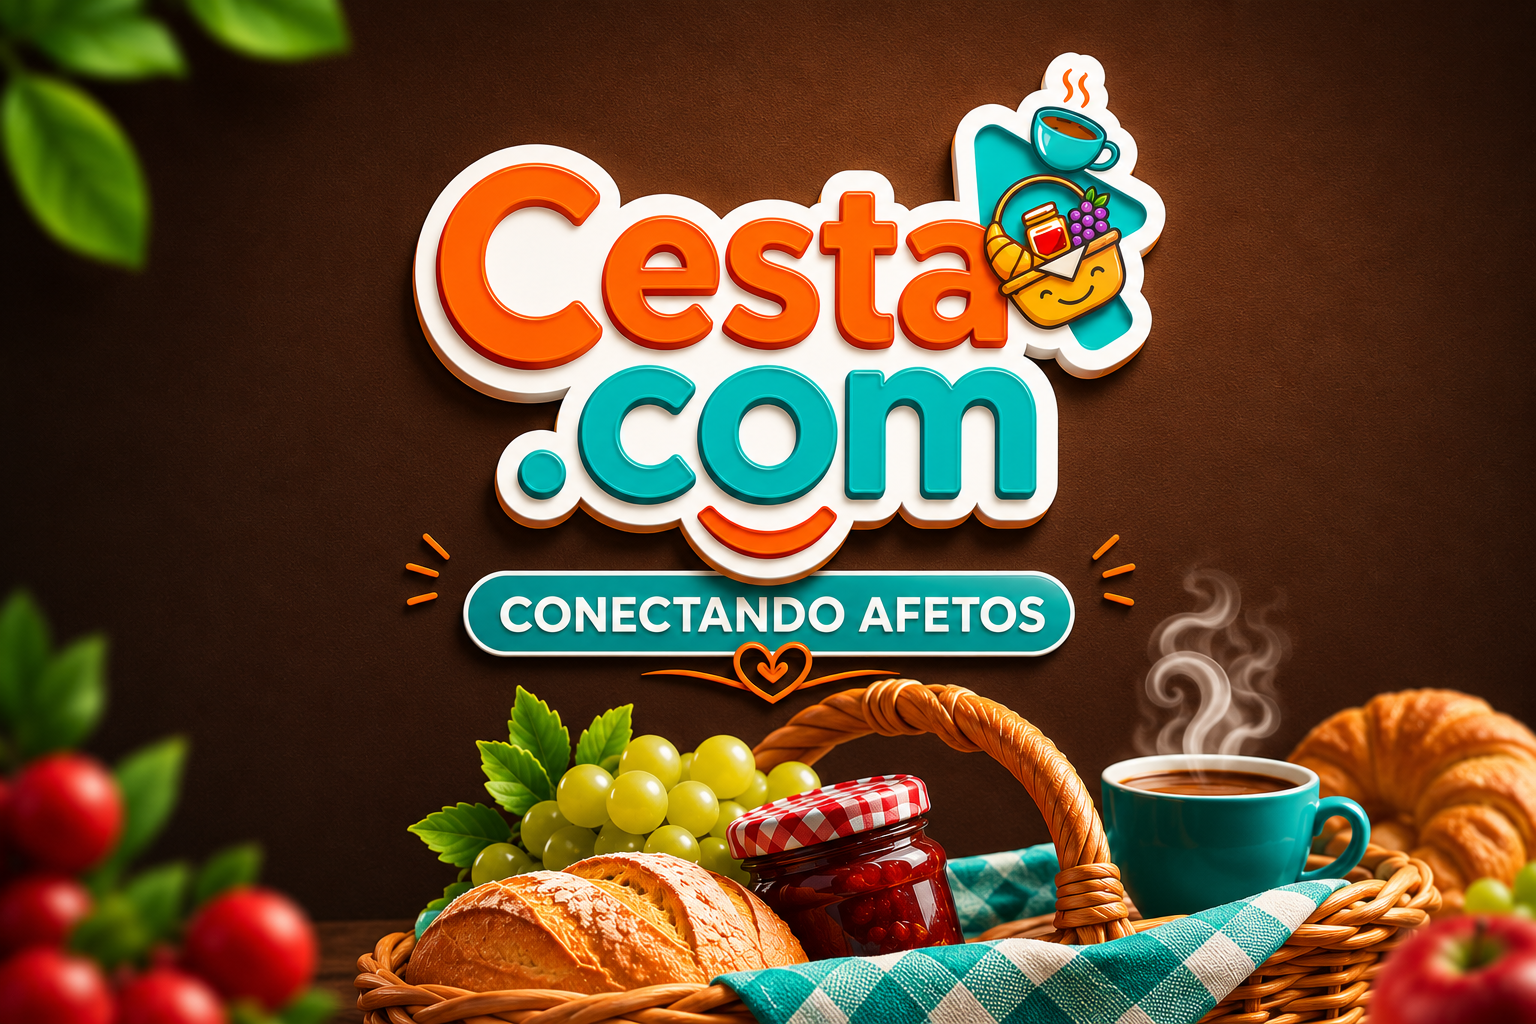
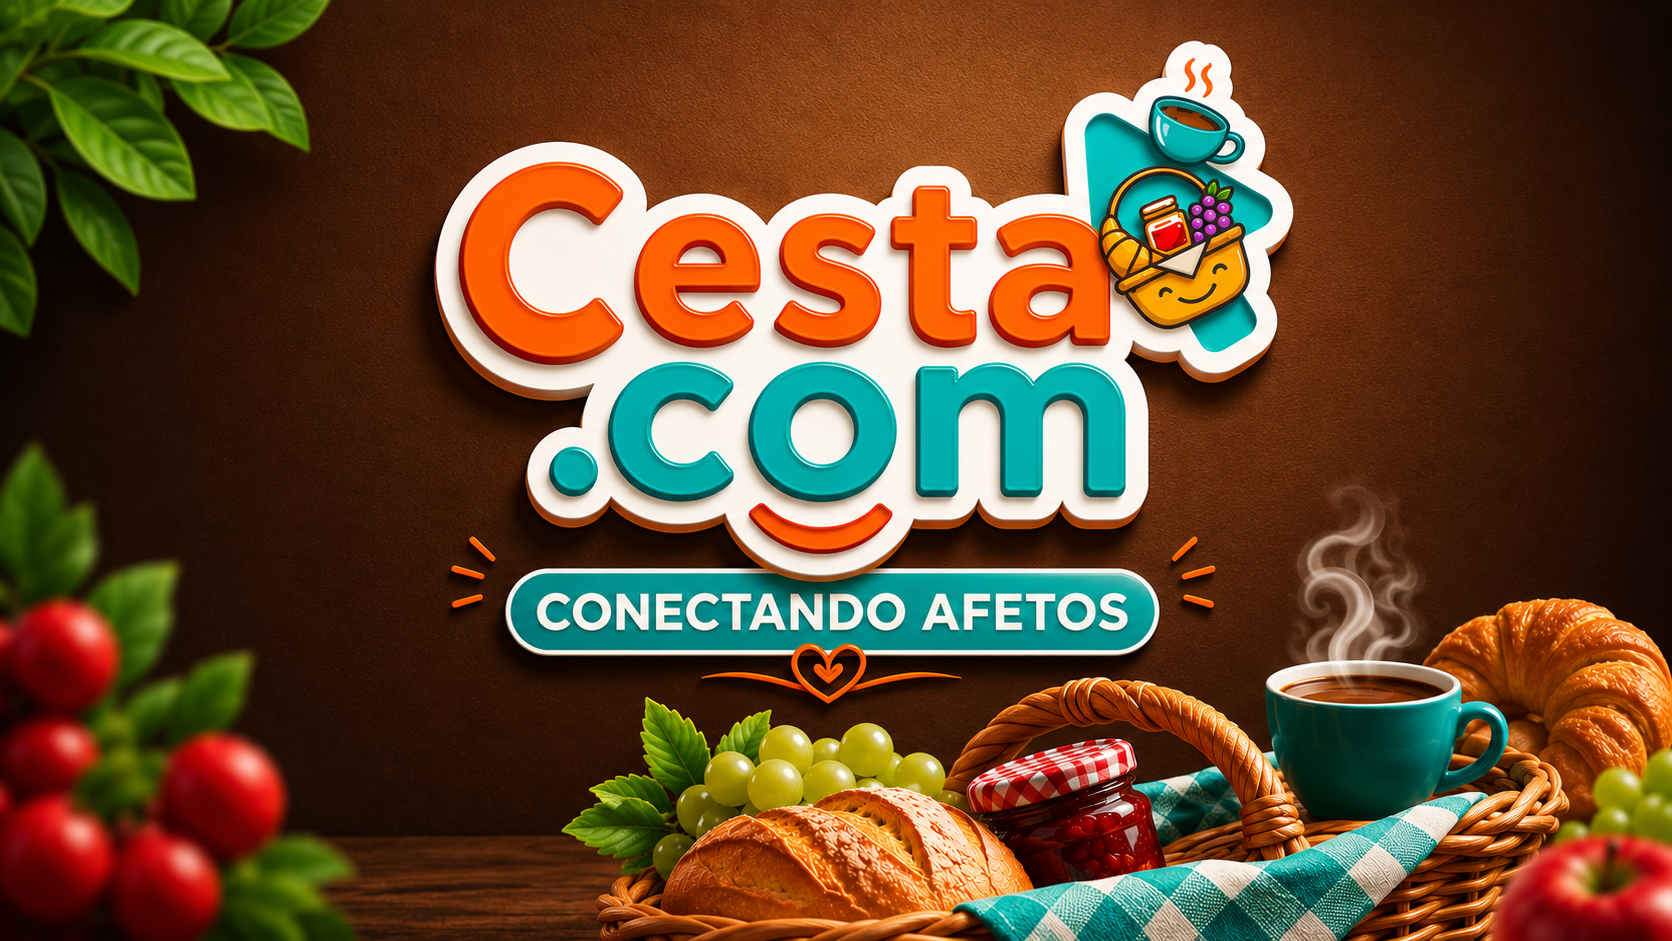
Ajusta paleta e hero da home

diff --git a/src/modules/home/pages/HomePage.tsx b/src/modules/home/pages/HomePage.tsx
@@ -8,9 +8,8 @@ import { WhatsAppButton } from '../../../shared/components/WhatsAppButton';
 import { useProducts } from '../../../shared/hooks/useProducts';
 import { testimonials } from '../../../shared/mocks/products';
 import { customOrderMessage } from '../../../shared/services/whatsapp';
+import heroImage from '../../../assets/hero.png';
 import mobileHeroImage from '../../../assets/heroMobile.png';
-
-const heroImage = 'https://images.unsplash.com/photo-1512909006721-3d6018887383?auto=format&fit=crop&w=1800&q=90';
 
 const steps = [
   { icon: Gift, title: 'Escolha sua cesta', text: 'Navegue por composições prontas para cada ocasião.' },
@@ -42,11 +41,13 @@ export function HomePage() {
         <div className="relative left-1/2 h-[calc(100svh-5rem)] min-h-[620px] w-screen -translate-x-1/2 overflow-hidden bg-espresso shadow-glow sm:hidden">
           <img className="h-full w-full object-cover object-center" src={mobileHeroImage} alt="Cesta.com, WhatsApp (12) 3126-3230 e Instagram @cesta.com_" />
         </div>
-        <img
-          className="absolute inset-0 hidden h-full w-full object-cover object-center sm:block"
-          src={heroImage}
-          alt="Cesta premium Cesta.com"
-        />
+        <div className="absolute inset-0 hidden sm:block">
+          <img
+            className="h-full w-full object-cover object-center"
+            src={heroImage}
+            alt="Cesta premium Cesta.com"
+          />
+        </div>
         <div className="absolute inset-0 hidden bg-gradient-to-r from-espresso/90 via-coffee/68 to-coffee/18 sm:block" />
         <div className="absolute inset-x-0 bottom-0 hidden h-36 bg-gradient-to-t from-cream to-transparent dark:from-espresso sm:block" />
 

diff --git a/tailwind.config.ts b/tailwind.config.ts
@@ -6,20 +6,20 @@ export default {
   theme: {
     extend: {
       colors: {
-        cream: '#fff8ed',
-        linen: '#f7ead7',
-        coffee: '#4b2f24',
-        espresso: '#24150f',
-        caramel: '#b9804d',
-        gold: '#d7a852',
-        rose: '#d9a3a1',
-        blush: '#f8dddc',
-        sage: '#8f9d7a',
-        pistachio: '#eef2df',
+        cream: '#fff6ec',
+        linen: '#fbe8d4',
+        coffee: '#4a2117',
+        espresso: '#20110d',
+        caramel: '#f26922',
+        gold: '#ff8a2a',
+        rose: '#ff6f4d',
+        blush: '#ffe1d3',
+        sage: '#00a9a5',
+        pistachio: '#d9fbf5',
       },
       boxShadow: {
-        premium: '0 24px 70px rgba(75, 47, 36, 0.14)',
-        glow: '0 20px 60px rgba(215, 168, 82, 0.24)',
+        premium: '0 24px 70px rgba(74, 33, 23, 0.14)',
+        glow: '0 20px 60px rgba(242, 105, 34, 0.24)',
       },
       fontFamily: {
         sans: ['Inter', 'ui-sans-serif', 'system-ui', 'sans-serif'],
@@ -27,7 +27,7 @@ export default {
       },
       backgroundImage: {
         'soft-radial':
-          'radial-gradient(circle at 18% 20%, rgba(217,163,161,.22), transparent 28%), radial-gradient(circle at 82% 12%, rgba(143,157,122,.20), transparent 30%), linear-gradient(135deg, #fff8ed 0%, #f7ead7 48%, #ffffff 100%)',
+          'radial-gradient(circle at 18% 20%, rgba(242,105,34,.16), transparent 28%), radial-gradient(circle at 82% 12%, rgba(0,169,165,.16), transparent 30%), linear-gradient(135deg, #fff6ec 0%, #fbe8d4 48%, #ffffff 100%)',
       },
     },
   },

diff --git a/src/styles/globals.css b/src/styles/globals.css
@@ -5,8 +5,8 @@
 @tailwind utilities;
 
 :root {
-  color: #2e1c15;
-  background: #fff8ed;
+  color: #4a2117;
+  background: #fff6ec;
   font-synthesis: none;
   text-rendering: optimizeLegibility;
   -webkit-font-smoothing: antialiased;
@@ -15,6 +15,7 @@
 
 html {
   scroll-behavior: smooth;
+  scroll-padding-top: 5rem;
 }
 
 body {
@@ -31,18 +32,18 @@ select {
 }
 
 option {
-  color: #24150f;
-  background: #fff8ed;
+  color: #20110d;
+  background: #fff6ec;
 }
 
 ::selection {
-  color: #24150f;
-  background: #f1cfc9;
+  color: #20110d;
+  background: #d9fbf5;
 }
 
 .dark {
-  color: #fff8ed;
-  background: #170f0b;
+  color: #fff6ec;
+  background: #170c09;
 }
 
 .premium-scrollbar::-webkit-scrollbar {
@@ -52,5 +53,5 @@ option {
 
 .premium-scrollbar::-webkit-scrollbar-thumb {
   border-radius: 999px;
-  background: rgba(185, 128, 77, 0.42);
+  background: rgba(242, 105, 34, 0.42);
 }

diff --git a/src/shared/components/layout/Header.tsx b/src/shared/components/layout/Header.tsx
@@ -61,7 +61,7 @@ export function Header() {
   }, [isOpen]);
 
   return (
-    <header className="fixed inset-x-0 top-0 z-50 border-b border-coffee/8 bg-cream/95 backdrop-blur-xl dark:border-white/10 dark:bg-espresso/95 md:sticky">
+    <header className="sticky top-0 z-50 border-b border-coffee/8 bg-cream shadow-sm dark:border-white/10 dark:bg-espresso">
       <div className="mx-auto flex h-20 max-w-7xl items-center justify-between px-4 sm:px-6 lg:px-8">
         <NavLink to="/" className="flex shrink-0 items-center gap-1.5 sm:gap-2" aria-label="Cesta.com">
           <BrandMark />

diff --git a/src/shared/components/layout/AppLayout.tsx b/src/shared/components/layout/AppLayout.tsx
@@ -10,7 +10,7 @@ export function AppLayout({ children }: { children: ReactNode }) {
     <div className="min-h-screen bg-soft-radial dark:bg-none dark:bg-espresso">
       <ScrollManager />
       <Header />
-      <main className="pt-20 pb-24 md:pt-0 md:pb-0">{children}</main>
+      <main className="pb-24 md:pb-0">{children}</main>
       <Footer />
       <MobileBottomNav />
       <BackToTopButton />
